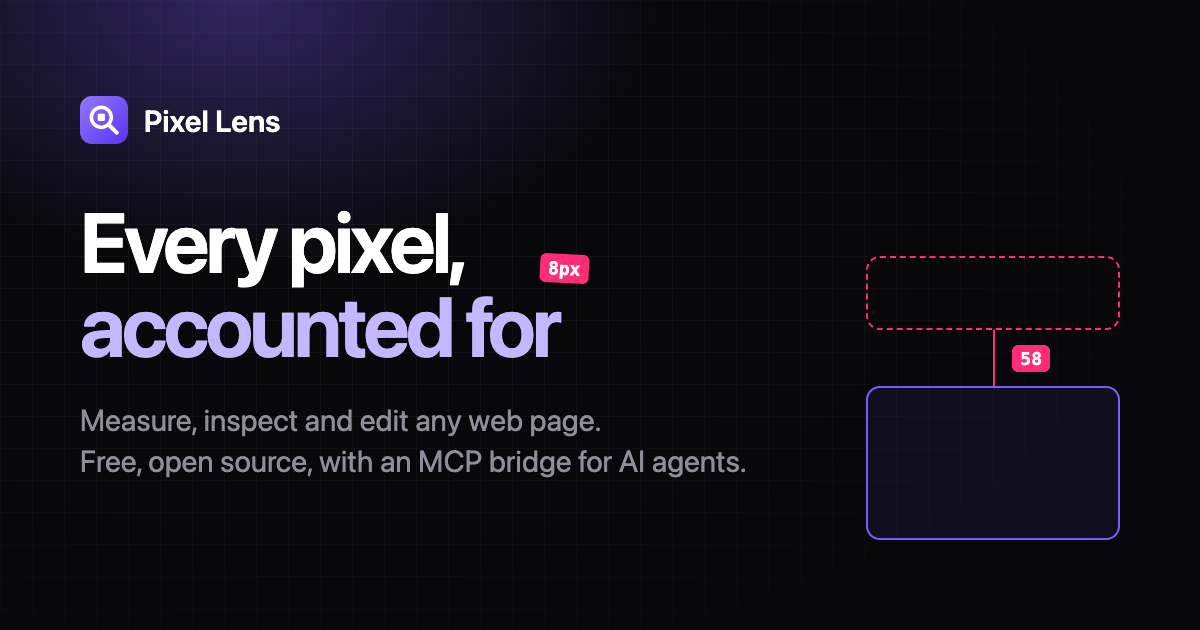
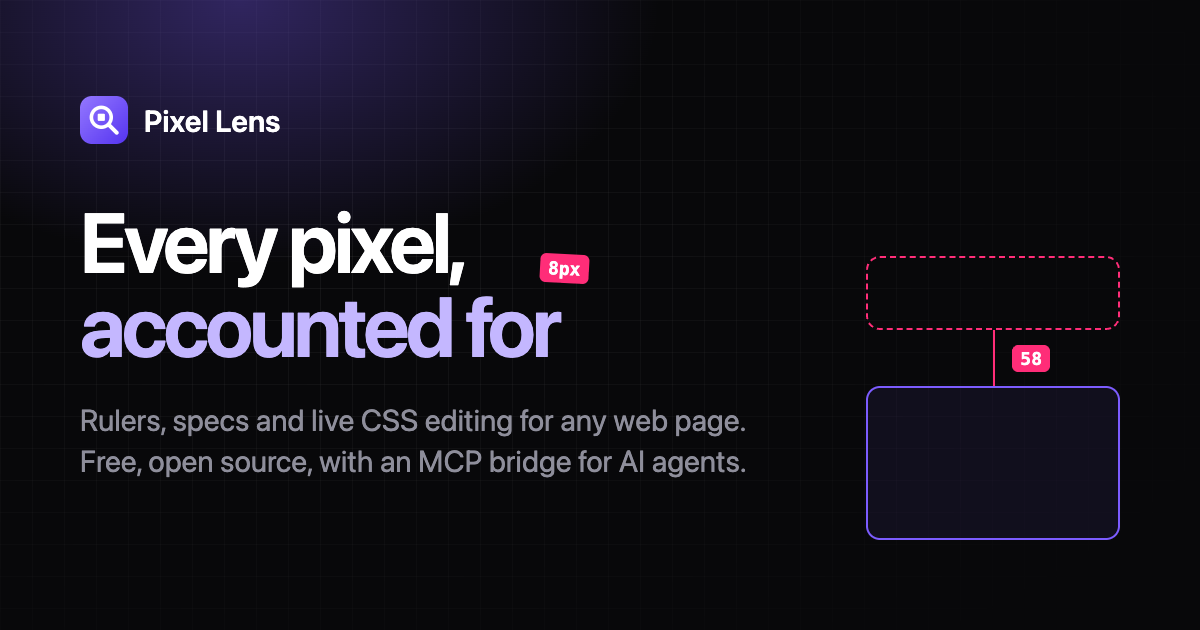
refactor: use original wording for tagline and feature names

Changed region(s): [[0.0617, 0.6333, 0.6167, 0.6937]]

diff --git a/apps/extension/wxt.config.ts b/apps/extension/wxt.config.ts
@@ -8,7 +8,7 @@ export default defineConfig({
   manifest: {
     name: "Pixel Lens",
     description:
-      "Measure, inspect and edit any web page. Rulers, spacing, CSS, colors, fonts, contrast audits and an MCP bridge for AI agents.",
+      "Rulers, spacing, CSS specs, colors, fonts, contrast audits and live editing for any web page, plus an MCP bridge for AI agents.",
     // activeTab + scripting: the extension only touches a page after you invoke it.
     // Blanket host access is optional and only requested for the Agent Bridge.
     permissions: ["activeTab", "scripting", "storage", "alarms"],

diff --git a/apps/extension/overlay/Dock.tsx b/apps/extension/overlay/Dock.tsx
@@ -14,7 +14,7 @@ export const PANELS: { id: Panel; icon: IconName; label: string; key: string }[]
   { id: "fonts", icon: "fonts", label: "Typography", key: "T" },
   { id: "assets", icon: "assets", label: "Assets", key: "A" },
   { id: "audit", icon: "audit", label: "Audit", key: "U" },
-  { id: "page", icon: "page", label: "Page insights", key: "P" },
+  { id: "page", icon: "page", label: "Page report", key: "P" },
   { id: "edits", icon: "edits", label: "Changes", key: "D" },
 ];
 

diff --git a/apps/landing/src/site.ts b/apps/landing/src/site.ts
@@ -1,6 +1,6 @@
 export const SITE = {
   name: "Pixel Lens",
-  tagline: "Measure, inspect and edit any web page.",
+  tagline: "Rulers, specs and live CSS editing for any web page.",
   description:
     "Pixel Lens is a free, open-source browser extension for designers and developers: rulers, spacing, CSS inspection, colors, fonts, contrast audits, live editing and an MCP bridge for AI coding agents.",
   url: "https://pixel-lens.dev",

diff --git a/apps/extension/overlay/InspectorCard.tsx b/apps/extension/overlay/InspectorCard.tsx
@@ -170,7 +170,7 @@ function CardBody({ el }: { el: Element }) {
   );
 }
 
-/** Floating inspector that follows the hovered element, or sticks to the selected one. */
+/** Hover inspector that follows the hovered element, or sticks to the selected one. */
 export function InspectorCard() {
   const tool = useOverlay((s) => s.tool);
   const hovered = useOverlay((s) => s.hovered);

diff --git a/apps/extension/overlay/Panels.tsx b/apps/extension/overlay/Panels.tsx
@@ -51,7 +51,7 @@ const TITLES: Record<Panel, string> = {
   fonts: "Typography",
   assets: "Assets",
   audit: "Audit",
-  page: "Page insights",
+  page: "Page report",
   edits: "Live edit",
   settings: "Settings",
   help: "Keyboard shortcuts",

diff --git a/README.md b/README.md
@@ -5,7 +5,7 @@
 <h1 align="center">Pixel Lens</h1>
 
 <p align="center">
-  Measure, inspect and edit any web page.<br />
+  Rulers, specs and live CSS editing for any web page.<br />
   A free, open-source browser extension for designers and developers, with an MCP bridge for AI coding agents.
 </p>
 
@@ -22,7 +22,7 @@
 
 | Tool | What it does | Key |
 | --- | --- | --- |
-| Inspect | Floating card with size, box model, typography, colors, WCAG contrast, layout and Tailwind classes. Pin cards to compare. | `I` |
+| Inspect | Hover card with size, box model, typography, colors, WCAG contrast, layout and Tailwind classes. Pin cards to compare. | `I` |
 | Measure | Edge-to-edge distances between the selection and the hovered element. Hold `Alt` in any tool. | `M` |
 | Ruler & guides | Drag to measure an area with snapping; pull guides from the rulers. | `R` |
 | Live edit | Edit CSS and text in place. Every change is tracked, persisted per page and exported as a diff, CSS or an agent prompt. | `E` |
@@ -31,7 +31,7 @@
 | Typography | All font families and their size/weight/line-height combinations. | `T` |
 | Assets | Images, inline SVGs, background images and videos, ready to download. | `A` |
 | Audit | WCAG AA/AAA contrast failures and SEO basics, with one-click jump to the element. | `U` |
-| Page insights | Page weight by resource type, detected technologies, social preview. | `P` |
+| Page report | Page weight by resource type, detected technologies, social preview. | `P` |
 | Grid & X-ray | Configurable column grid and outlines on every element. | `G` `X` |
 | Agent bridge | Local MCP server so Claude Code, Cursor or Windsurf can inspect, measure, edit and screenshot the active tab. | |
 
@@ -96,4 +96,6 @@ Open the extension options, switch on **Agent Bridge** and grant site access. Se
 
 ## License
 
-[MIT](LICENSE) © Valentyn Yefimov
+[MIT](LICENSE) © Valentyn Yefimov. Third-party packages keep their own licenses, listed in [THIRD_PARTY_NOTICES.md](THIRD_PARTY_NOTICES.md). Trademarks, contribution rules and the originality policy are in [docs/LEGAL.md](docs/LEGAL.md).
+
+Chrome, Edge, Firefox, Brave, Arc, Figma, Claude, Cursor, Windsurf and Tailwind CSS are trademarks of their respective owners. Pixel Lens is an independent project and is not affiliated with or endorsed by them.
